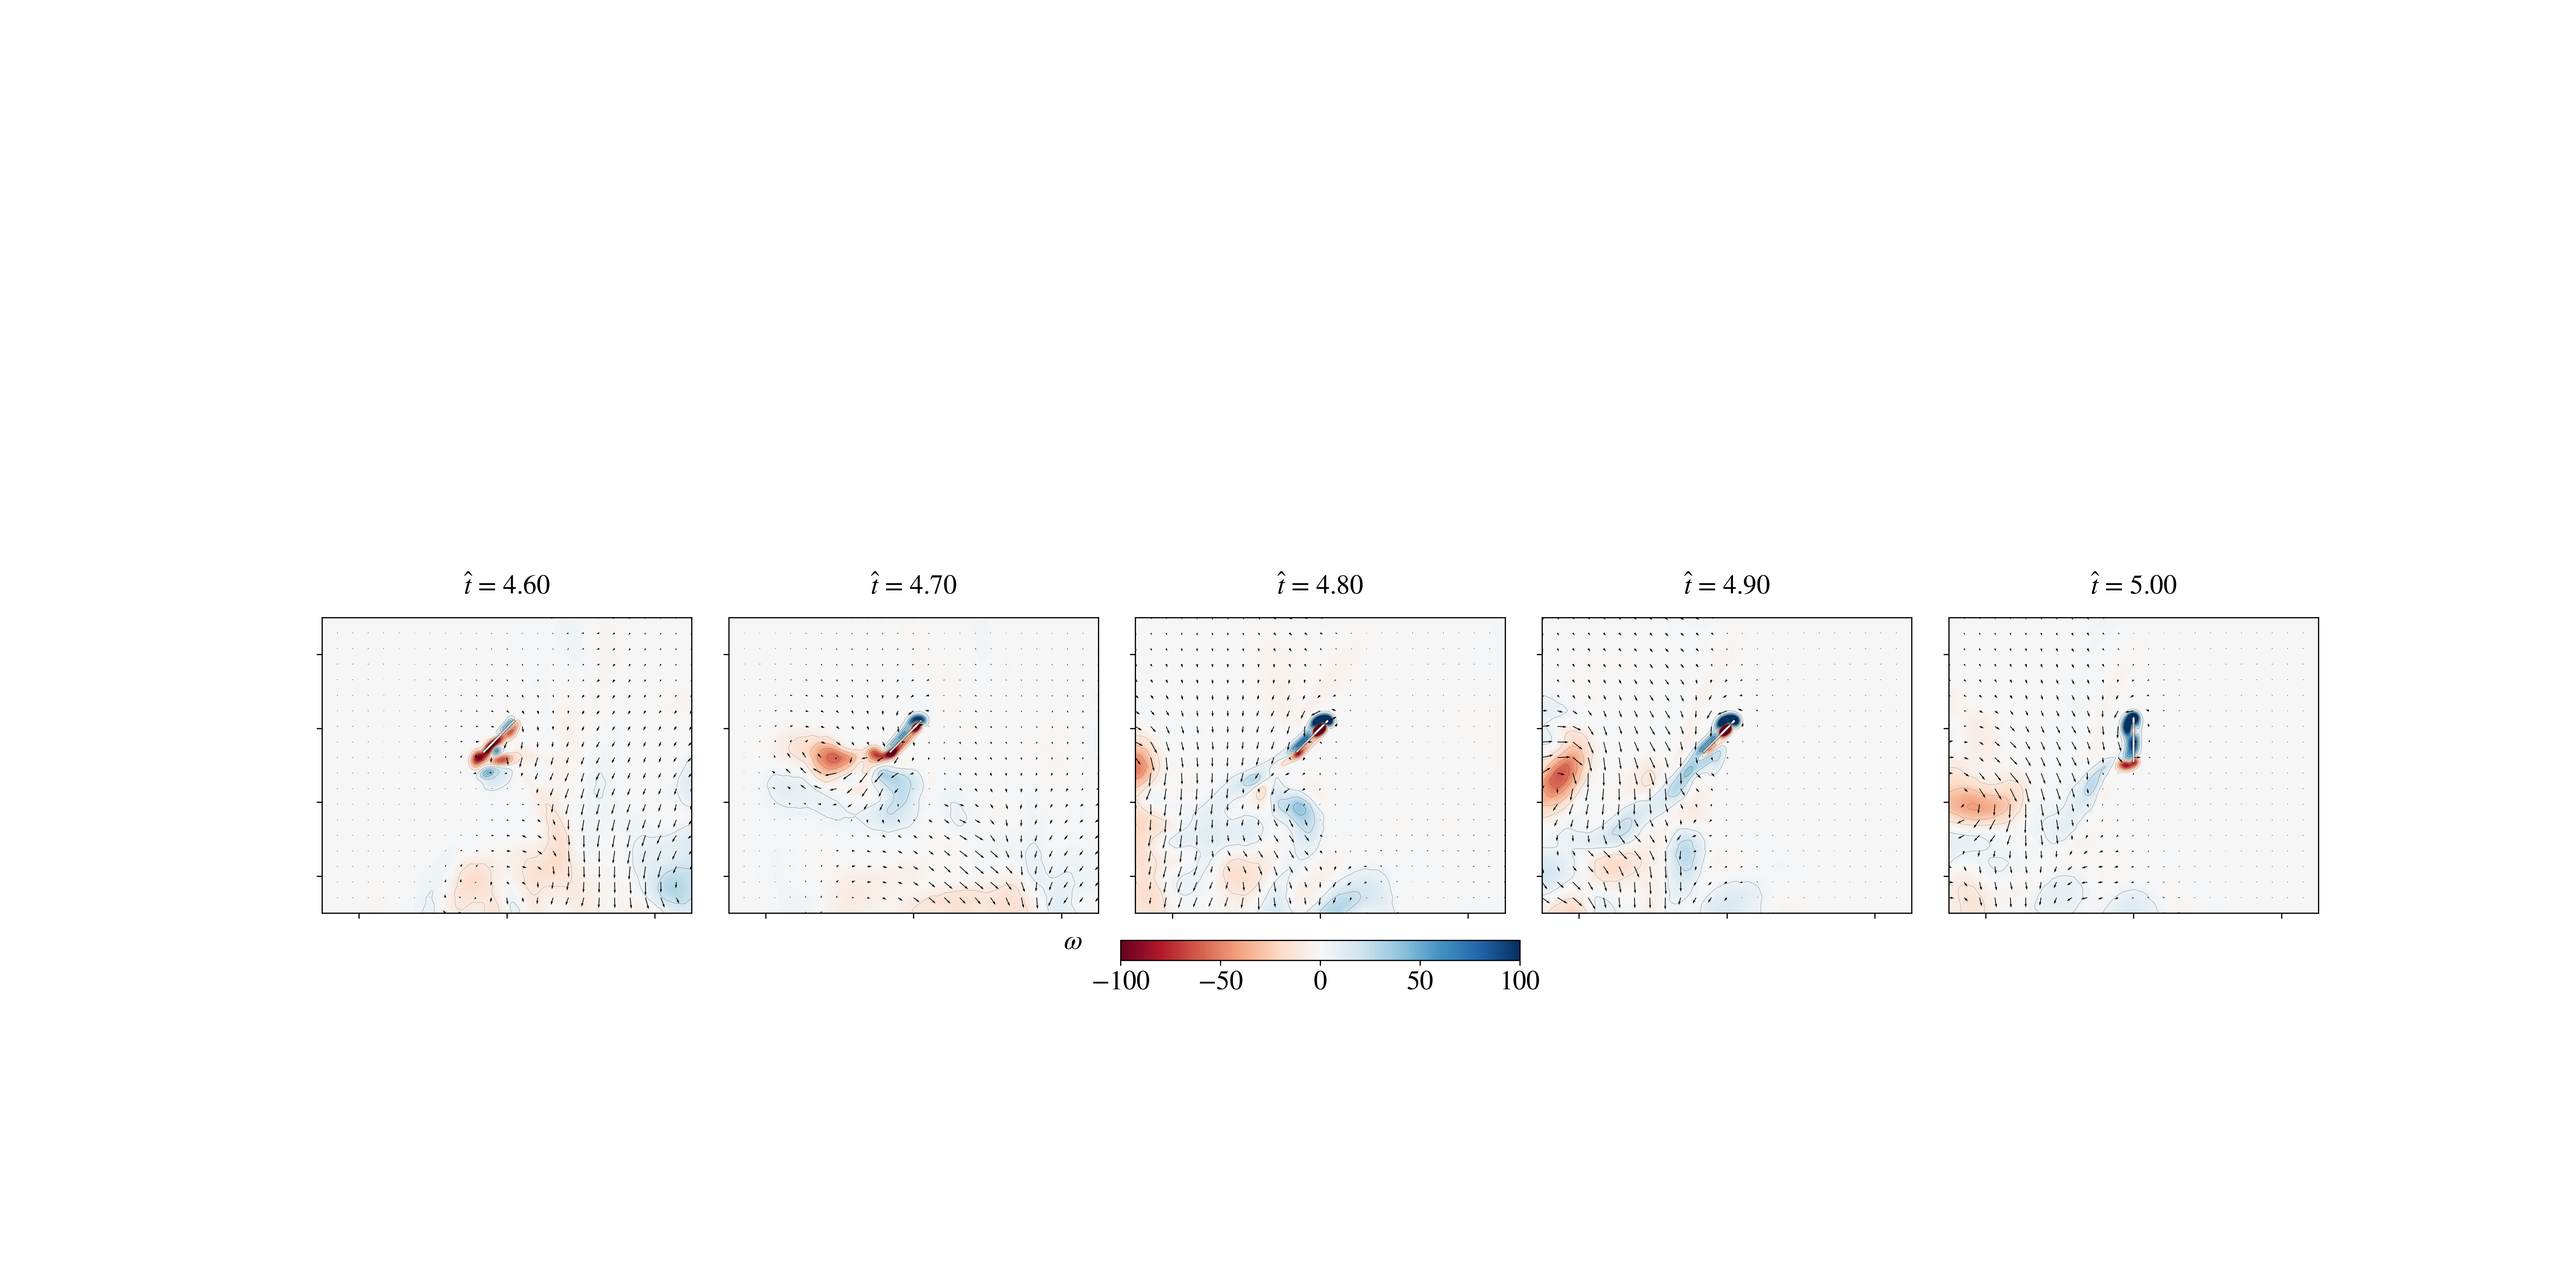
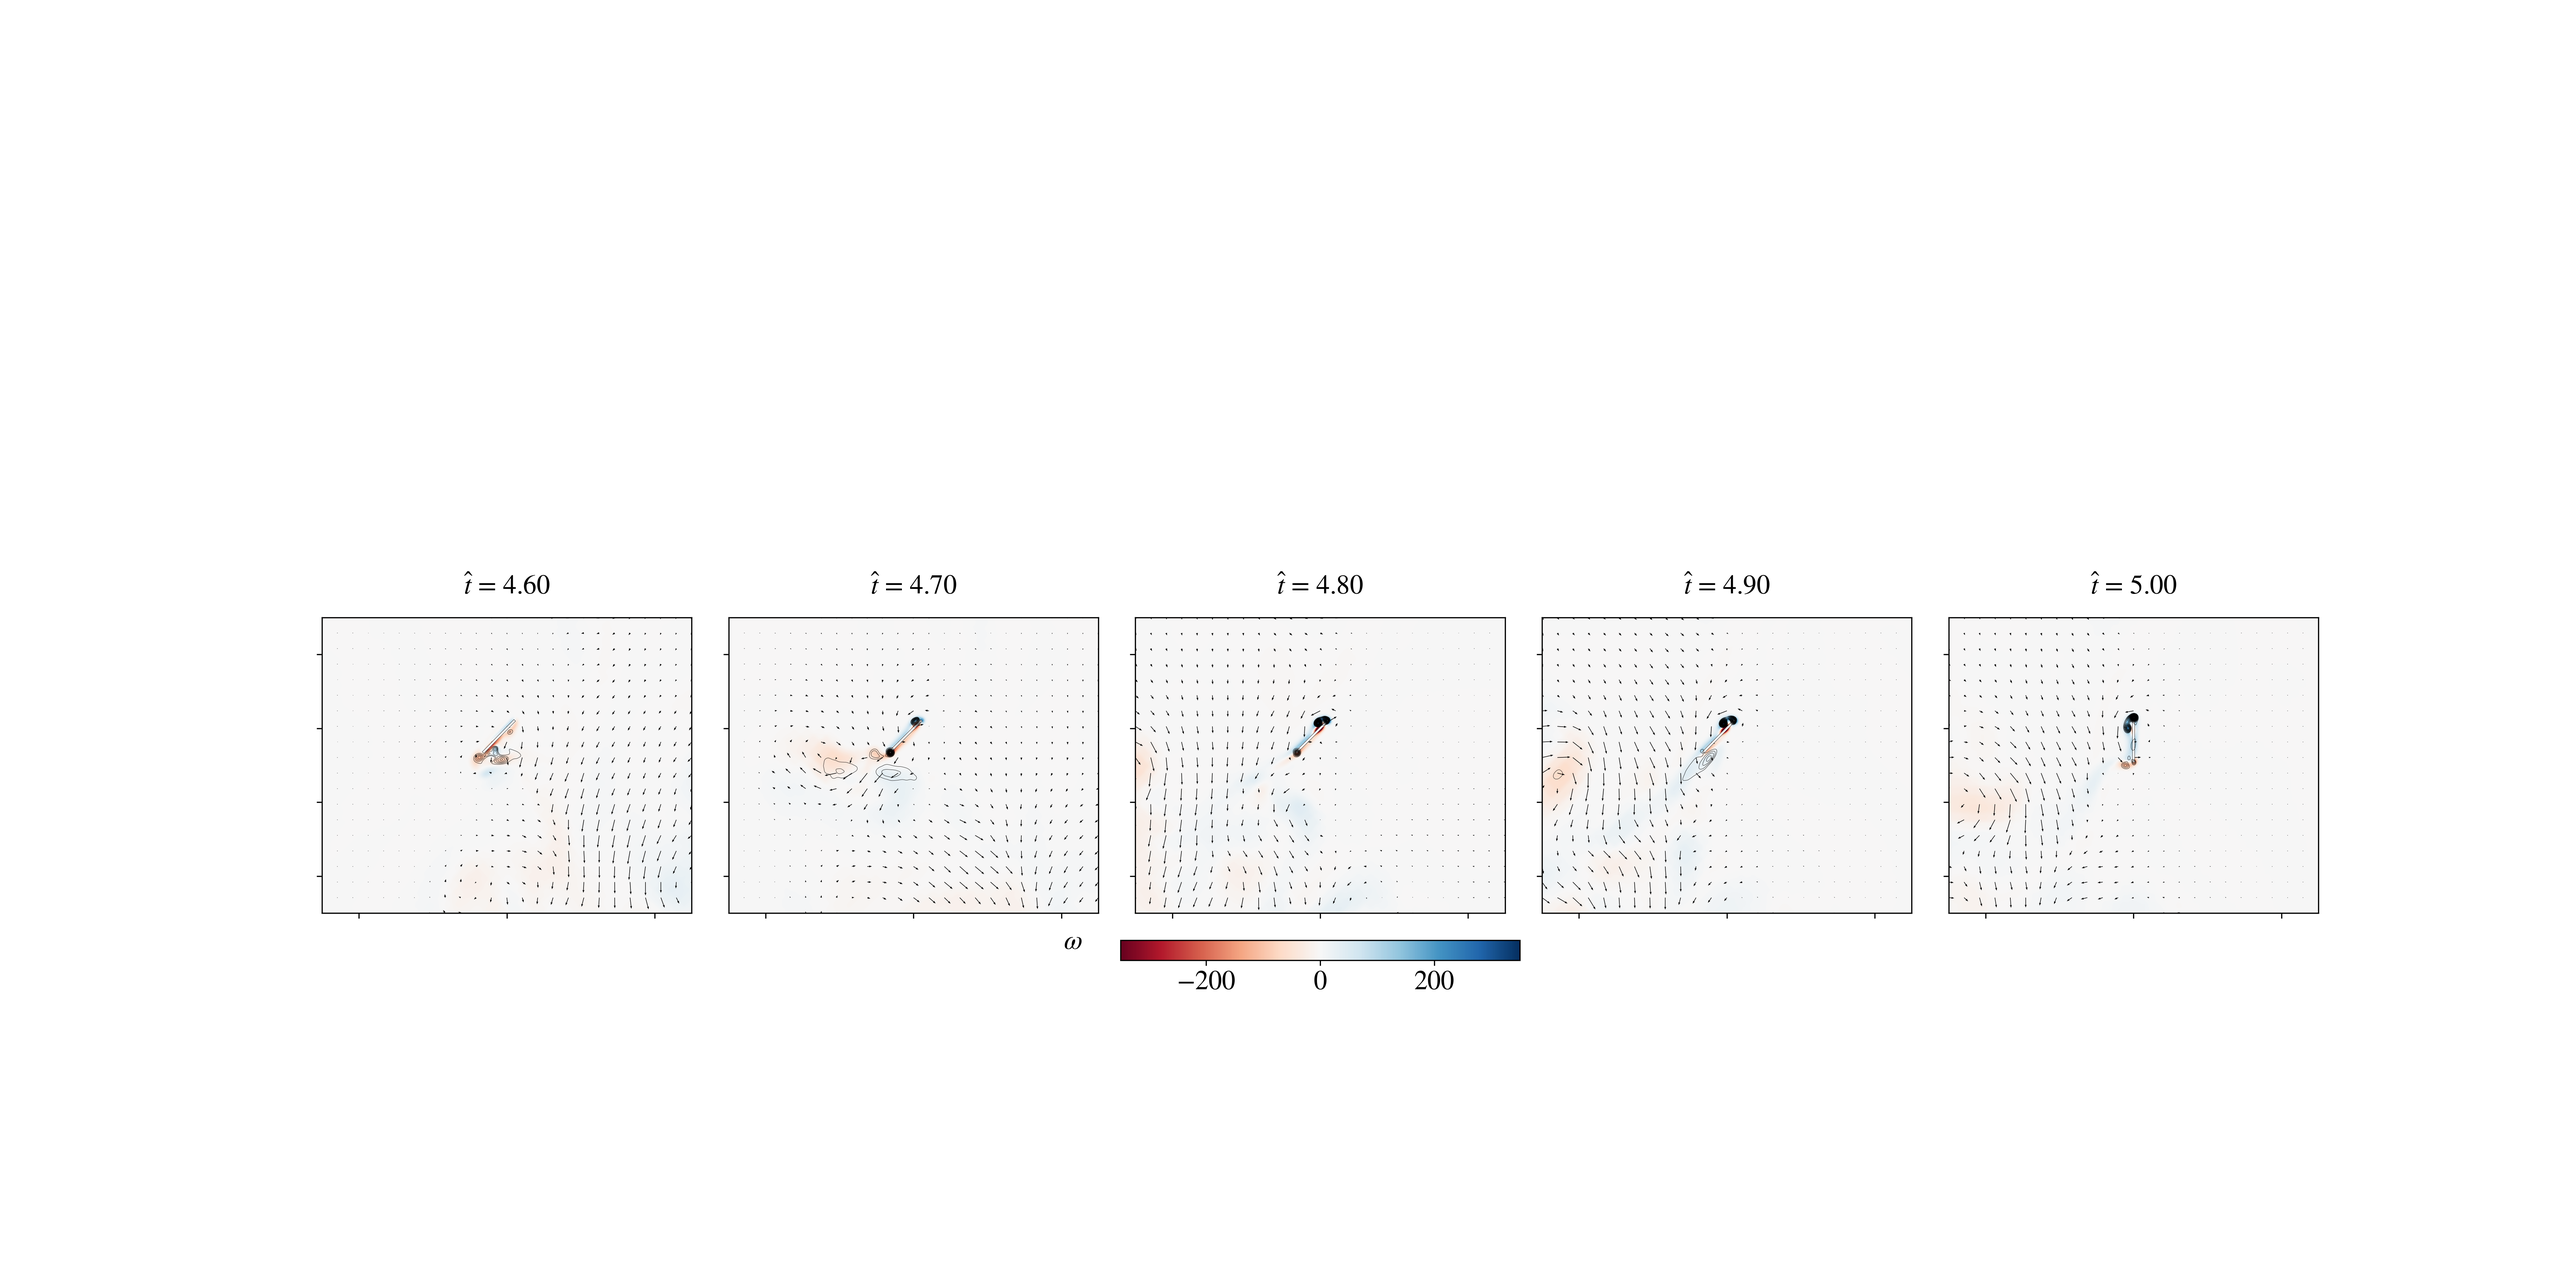
finished initial version of 3d section flow visulizarion

diff --git a/wake_capture_3d_figures/figure_flow_visulizations/field_processing_finctions.py b/wake_capture_3d_figures/figure_flow_visulizations/field_processing_finctions.py
@@ -119,29 +119,33 @@ def grid_ufield(window, resolution, ufield_array):
     return grid_x, grid_y, grid_ux, grid_uy
 
 
-def single_plot_field(images, axto_plot, window, grid_x, grid_y, sdata, vdata,
-                      wdata, imnorm, levels):
+def single_plot_field(images, axto_plot, window, grid_x, grid_y, sImgdata,
+                      sCtrdata, vdata, wdata, imnorm, levels):
     """plot one single field data"""
     images.append(
-        axto_plot.imshow(sdata,
+        axto_plot.imshow(sImgdata,
                          cmap='RdBu',
                          norm=imnorm,
-                         aspect='equal',
                          extent=window,
                          origin='lower',
                          interpolation='bicubic'))
-    axto_plot.contour(sdata,
+
+    axto_plot.contour(sCtrdata,
                       levels,
-                      linewidths=0.1,
+                      linewidths=0.2,
                       colors='k',
                       extent=window,
                       origin='lower')
+
     axto_plot.quiver(grid_x,
                      grid_y,
                      vdata[0],
                      vdata[1],
                      scale=25,
-                     width=0.002)
+                     width=0.0015,
+                     headwidth=3.5)
+
+    axto_plot.set_aspect('equal')
 
     nverts = len(wdata)
     codes = np.ones(nverts, int) * path.Path.LINETO
@@ -160,8 +164,9 @@ def single_plot_field(images, axto_plot, window, grid_x, grid_y, sdata, vdata,
     return axto_plot
 
 
-def field_plot(windows, ufield_gridx, ufield_gridy, sfield_data, vfield_data,
-               wgeo_data, markt, oimage_file, mode):
+def field_plot(windows, ufield_gridx, ufield_gridy, sImgfield_data,
+               sCtrfield_data, vfield_data, wgeo_data, markt, oimage_file,
+               mode):
     """plot field data"""
     plt.rcParams.update({
         # "text.usetex": True,
@@ -177,8 +182,8 @@ def field_plot(windows, ufield_gridx, ufield_gridy, sfield_data, vfield_data,
     marksc = [r'$\^t$ = ' + '{0:.2f}'.format(x) for x in markt]
     window = windows
     no_c = len(wgeo_data)
-    imnorm = colors.Normalize(vmin=-100, vmax=100)
-    levels = np.arange(-100.0, 100.0, 15)
+    imnorm = colors.Normalize(vmin=-3.5e2, vmax=3.5e2)
+    levels = np.linspace(1.0e3, 5.0e4, 50)
     zoom_order = 5
 
     images = []
@@ -193,14 +198,16 @@ def field_plot(windows, ufield_gridx, ufield_gridy, sfield_data, vfield_data,
                  width_ratios=[1, 1, 1, 1, 1])
 
     fig, axr1 = plt.subplots(nrows=1, ncols=no_c, gridspec_kw=gs_kw)
-    for grid_x, grid_y, sdatai, vdatai, wdatai, axr1i, marksci in zip(
-            ufield_gridx, ufield_gridy, sfield_data, vfield_data, wgeo_data,
-            axr1, marksc):
+    for grid_x, grid_y, sImgdatai, sCtrdatai, vdatai, wdatai, axr1i, marksci in zip(
+            ufield_gridx, ufield_gridy, sImgfield_data, sCtrfield_data,
+            vfield_data, wgeo_data, axr1, marksc):
 
-        sdatai = zoom(sdatai, zoom_order)
-        sdatai = gaussian_filter(sdatai, sigma=10.0)
-        single_plot_field(images, axr1i, window, grid_x, grid_y, sdatai,
-                          vdatai, wdatai, imnorm, levels)
+        sImgdatai = zoom(sImgdatai, zoom_order)
+        sImgdatai = gaussian_filter(sImgdatai, sigma=6.0)
+        sCtrdatai = zoom(sCtrdatai, zoom_order)
+        sCtrdatai = gaussian_filter(sCtrdatai, sigma=6.0)
+        single_plot_field(images, axr1i, window, grid_x, grid_y, sImgdatai,
+                          sCtrdatai, vdatai, wdatai, imnorm, levels)
 
         axr1i.set_xticklabels([])
         axr1i.set_yticklabels([])
@@ -228,14 +235,15 @@ def field_plot(windows, ufield_gridx, ufield_gridy, sfield_data, vfield_data,
 
         ax_all.append(axr1i)
 
-    cb = fig.colorbar(images[-1],
-                      ax=ax_all,
-                      orientation='horizontal',
-                      fraction=0.1,
-                      shrink=0.2,
-                      pad=0.03)
-    cb.ax.set_xlabel(r'$\omega$')
-    cb.ax.xaxis.set_label_coords(-0.12, 1.5)
+    if len(images) > 0:
+        cb = fig.colorbar(images[-1],
+                          ax=ax_all,
+                          orientation='horizontal',
+                          fraction=0.1,
+                          shrink=0.2,
+                          pad=0.03)
+        cb.ax.set_xlabel(r'$\omega$')
+        cb.ax.xaxis.set_label_coords(-0.12, 1.5)
 
     if mode == 'save':
         plt.savefig(oimage_file)

diff --git a/wake_capture_3d_figures/figure_flow_visulizations/flow_field_figure.py b/wake_capture_3d_figures/figure_flow_visulizations/flow_field_figure.py
@@ -46,7 +46,8 @@ time_series = np.sort(
 
 ufield_gridx = []
 ufield_gridy = []
-sdata = []
+sImgdata = []
+sCtrdata = []
 vdata = []
 wdata = []
 markt = []
@@ -65,21 +66,22 @@ for timei in time_series:
         vorz_data = vor_data[:, [0, 1, 4]]
         uxyfield_data = ufield_data[:, 0:4]
         grid_x, grid_y, grid_vz = grid_vorz(window, resolution, vorz_data)
+        grid_x, grid_y, grid_q = grid_vorz(window, resolution, q_data)
         grid_x, grid_y, grid_ux, grid_uy = grid_ufield(window,
                                                        resolution_vector,
                                                        uxyfield_data)
-        # grid_x, grid_y, grid_q = grid_vorz(window, resolution, q_data)
         #-----write wing centroid history-----
         centroid_ti = [str(timei), str(w_centroid[0]), str(w_centroid[1])]
 
         ufield_gridx.append(grid_x.T)
         ufield_gridy.append(grid_y.T)
-        sdata.append(grid_vz.T)
+        sImgdata.append(grid_vz.T)
+        sCtrdata.append(grid_q.T)
         vdata.append([grid_ux.T, grid_uy.T])
         wdata.append(wgeo_data)
         markt.append(timei)
 # -------------plot all vortices-----------
-field_plot(window, ufield_gridx, ufield_gridy, sdata, vdata, wdata, markt,
-           oimage_file, 'save')
+field_plot(window, ufield_gridx, ufield_gridy, sImgdata, sCtrdata, vdata,
+           wdata, markt, oimage_file, 'save')
 plt.close()
 # ----------------------------------------------
